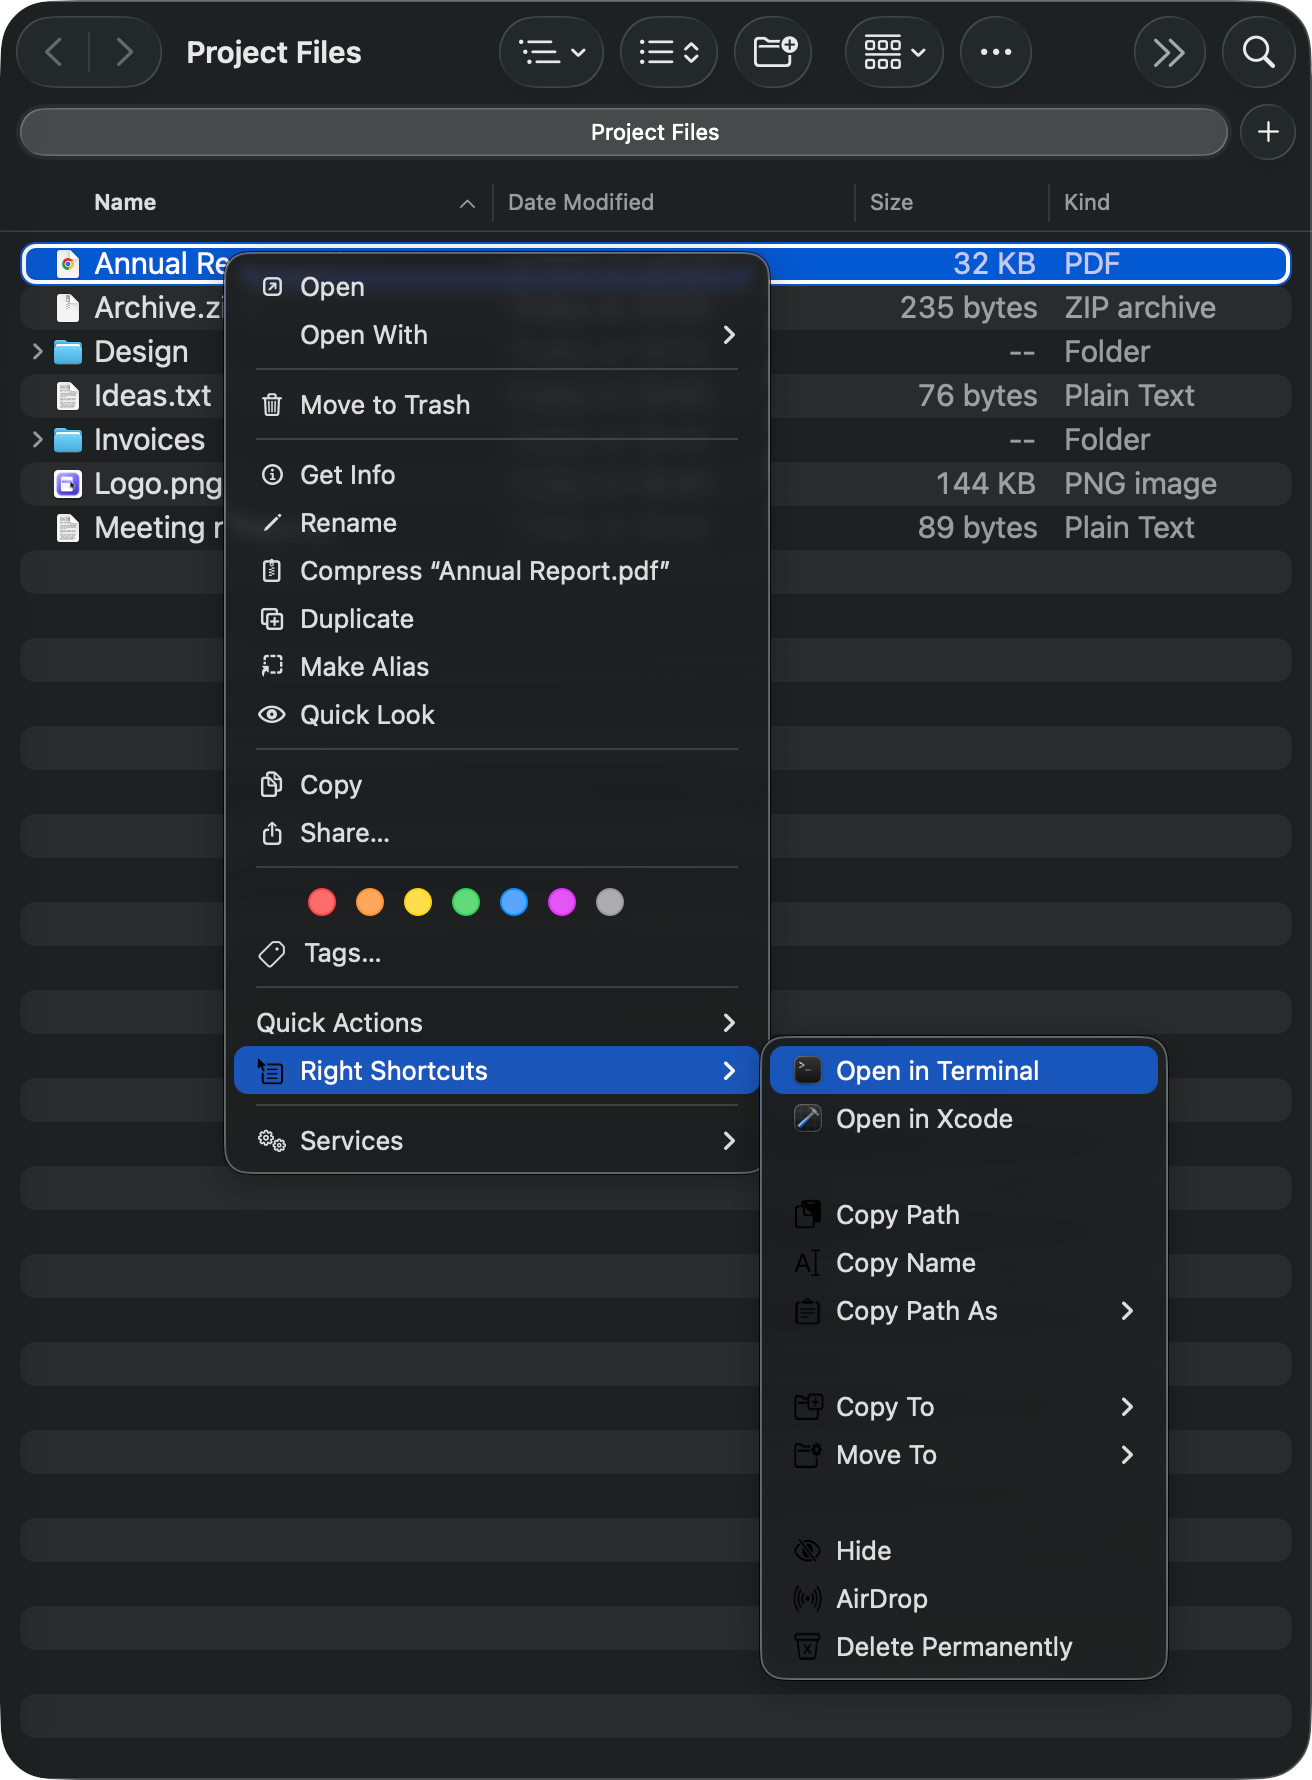
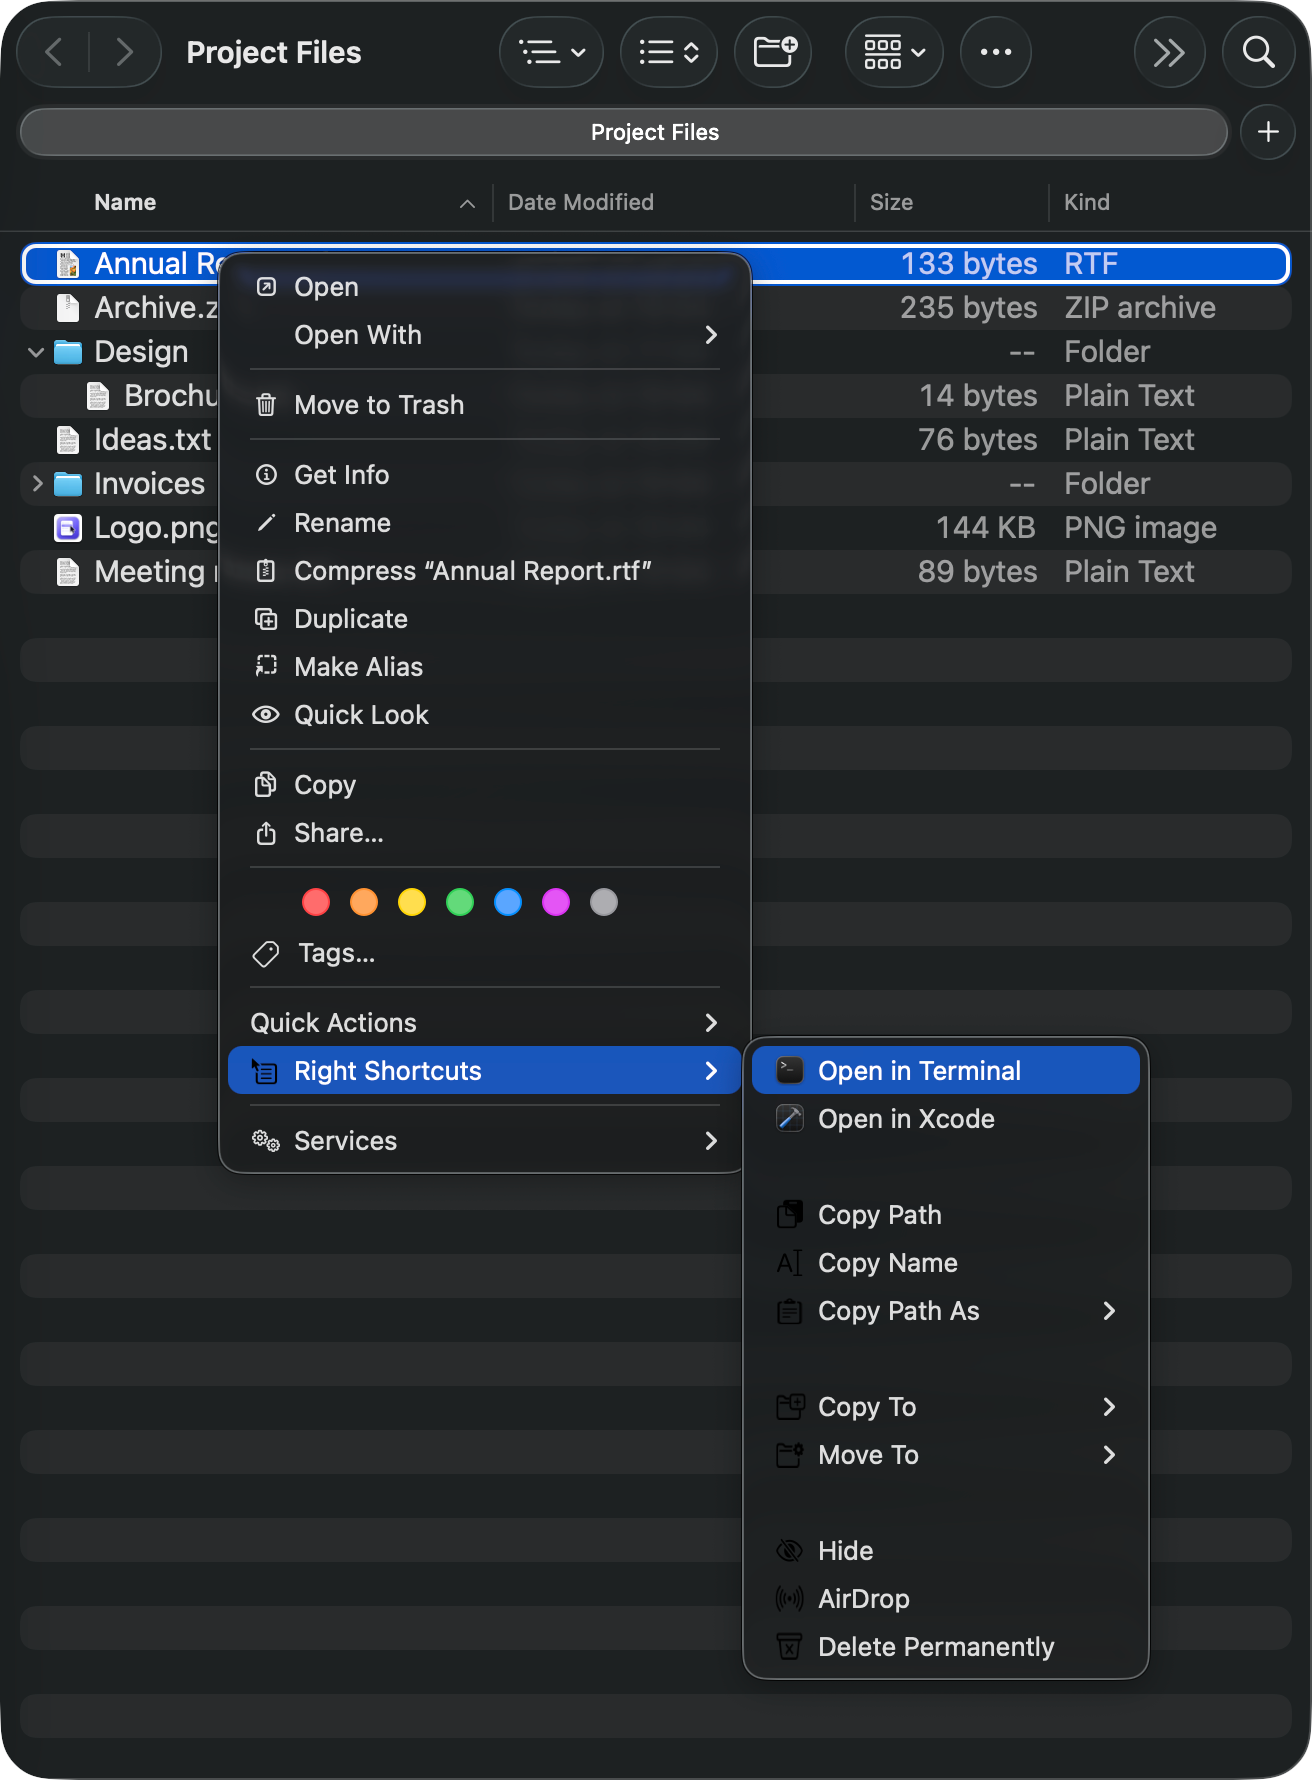
Add light-theme screenshots and refresh the Finder pictures

diff --git a/README.md b/README.md
@@ -31,15 +31,24 @@ Your actions on any file or folder, one submenu away:
 
 Choose what is in the menu, and see the result in a live preview:
 
-![The Menu Items pane: a list of actions with switches, and a preview of the Finder menu beside it](docs/screenshots/menu-items.png)
+<picture>
+  <source media="(prefers-color-scheme: dark)" srcset="docs/screenshots/menu-items.png">
+  <img src="docs/screenshots/menu-items-light.png" alt="The Menu Items pane: a list of actions with switches, and a preview of the Finder menu beside it">
+</picture>
 
 Pick the kinds of files you can create:
 
-![The New File pane: templates for text, Markdown, Word, Excel, PowerPoint, JSON, shell scripts and more, each with a switch](docs/screenshots/new-file.png)
+<picture>
+  <source media="(prefers-color-scheme: dark)" srcset="docs/screenshots/new-file.png">
+  <img src="docs/screenshots/new-file-light.png" alt="The New File pane: templates for text, Markdown, Word, Excel, PowerPoint, JSON, shell scripts and more, each with a switch">
+</picture>
 
 Decide where the menu appears and where the app may work:
 
-![The Folders pane: allowed folders, a choice between everywhere on this Mac and chosen folders only, exceptions and quick folders](docs/screenshots/folders.png)
+<picture>
+  <source media="(prefers-color-scheme: dark)" srcset="docs/screenshots/folders.png">
+  <img src="docs/screenshots/folders-light.png" alt="The Folders pane: allowed folders, a choice between everywhere on this Mac and chosen folders only, exceptions and quick folders">
+</picture>
 
 ## Requirements
 
